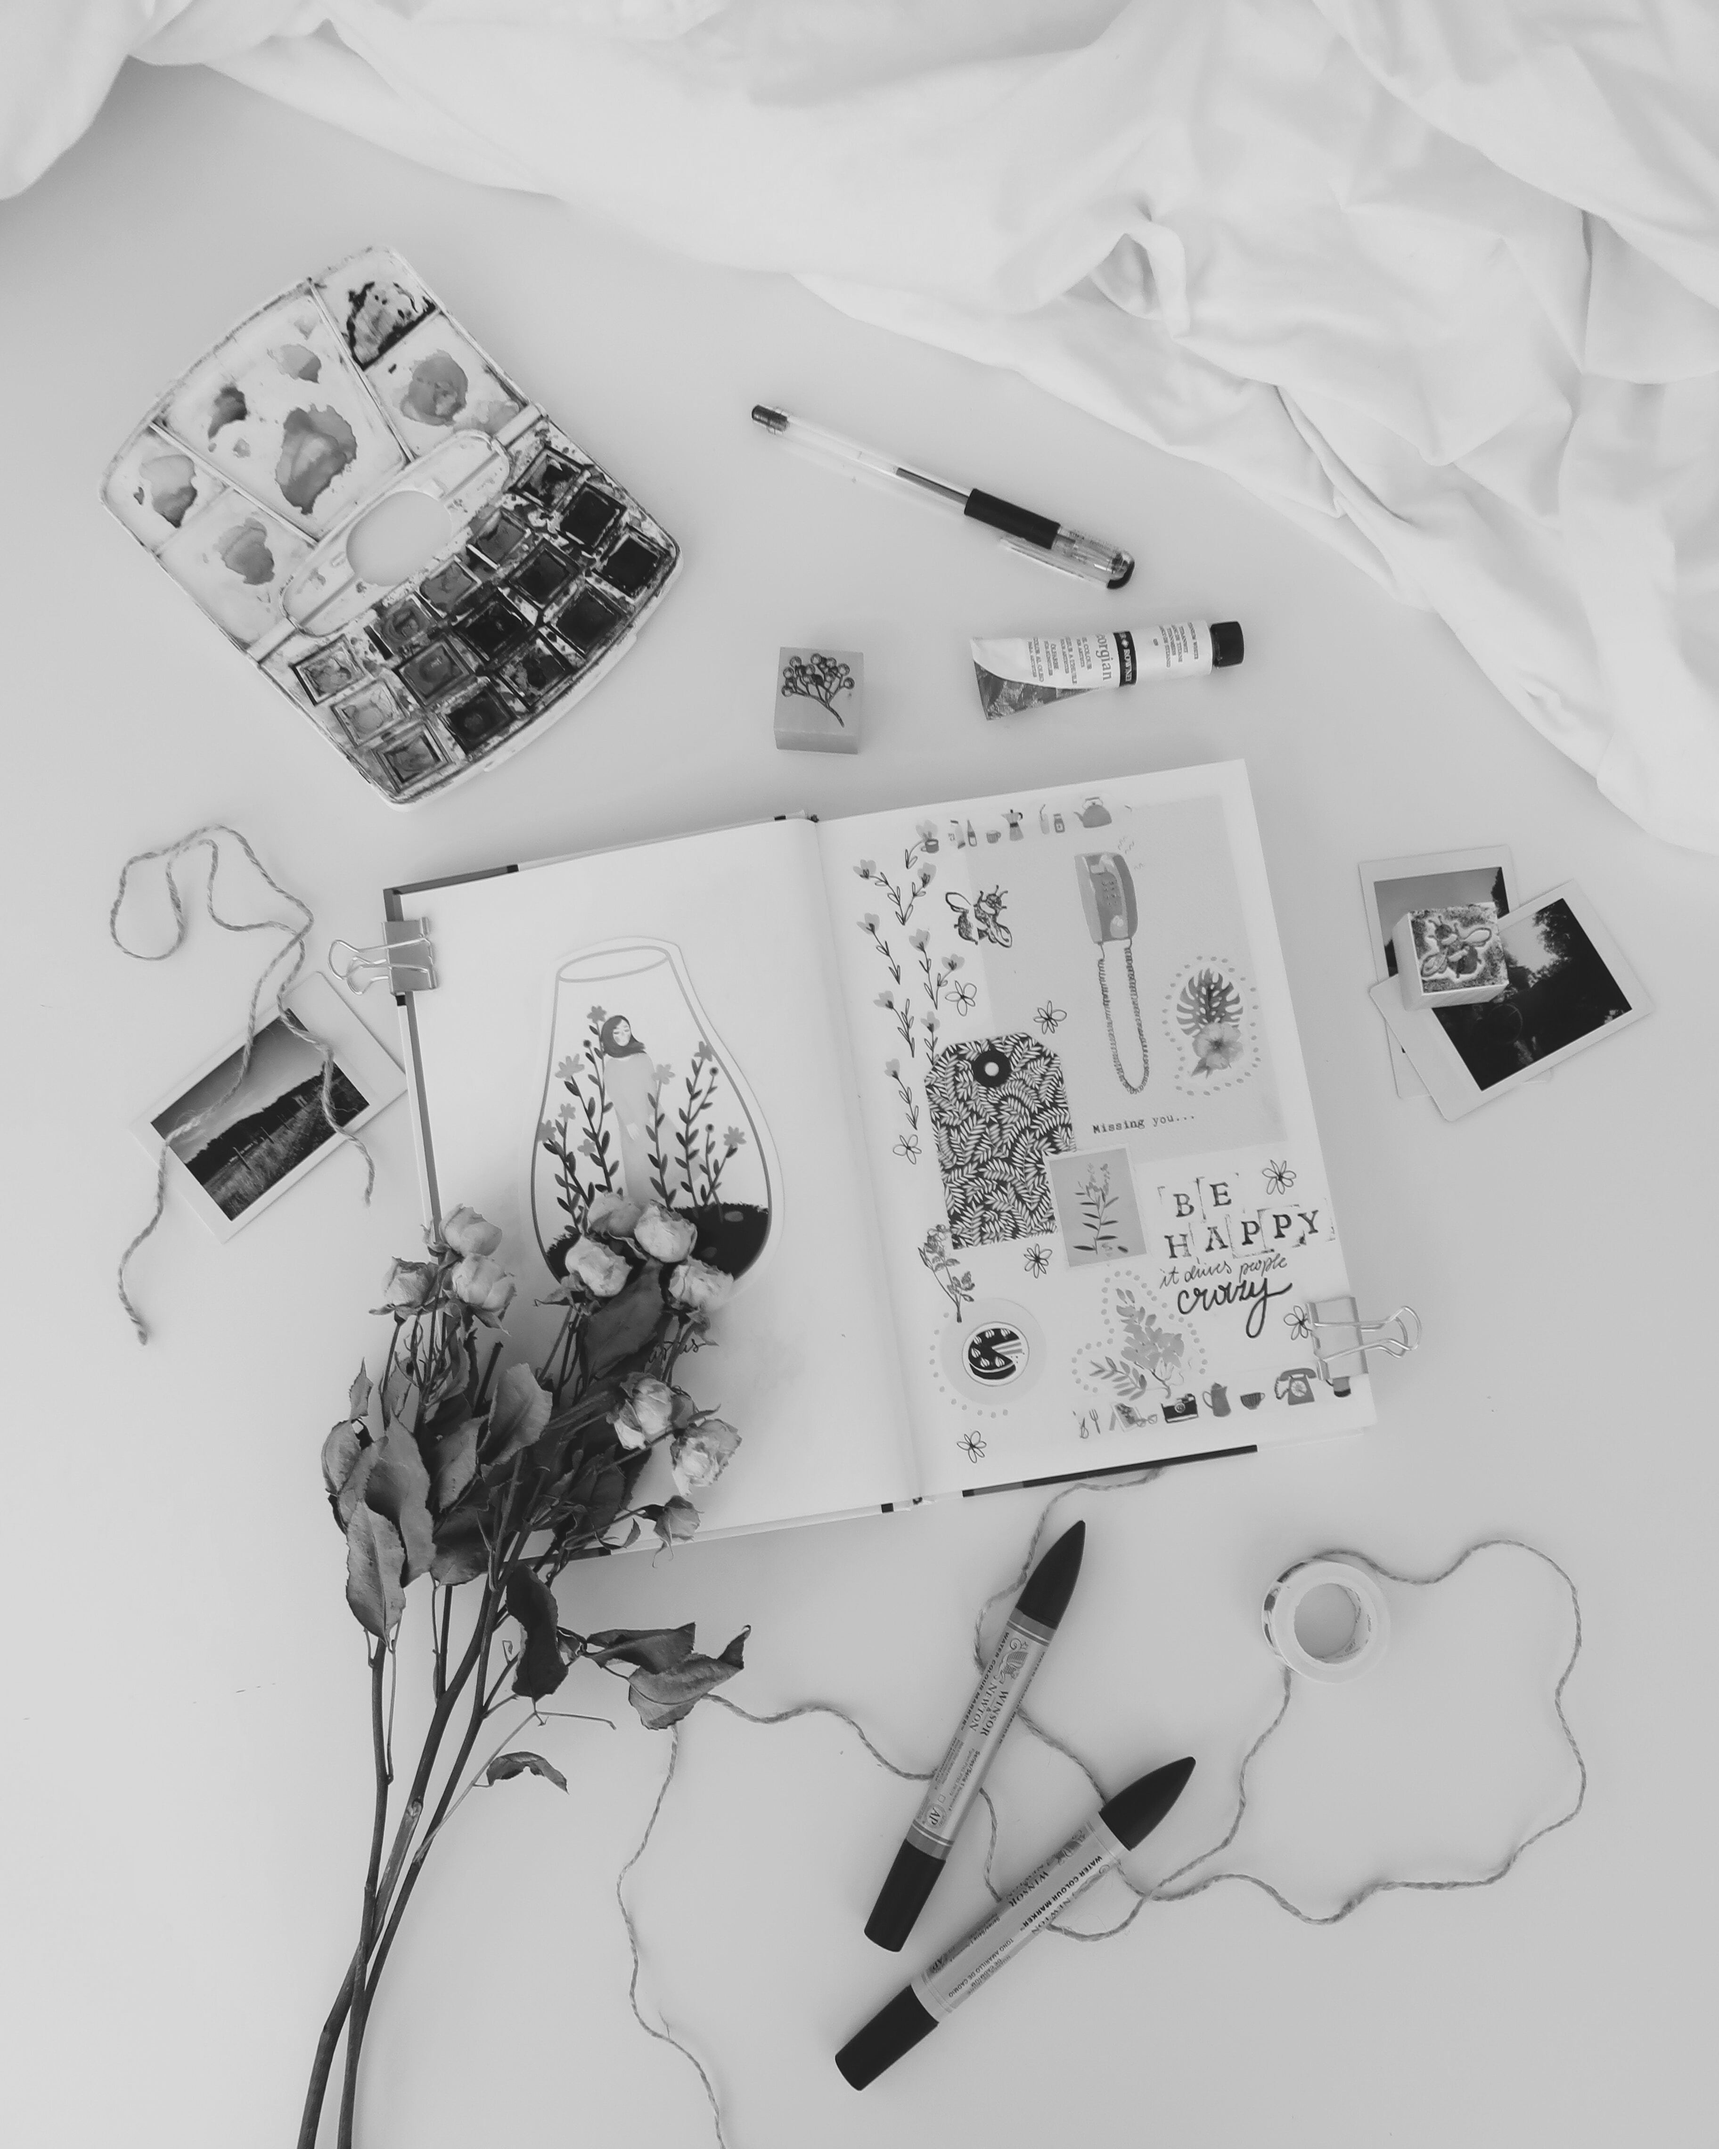
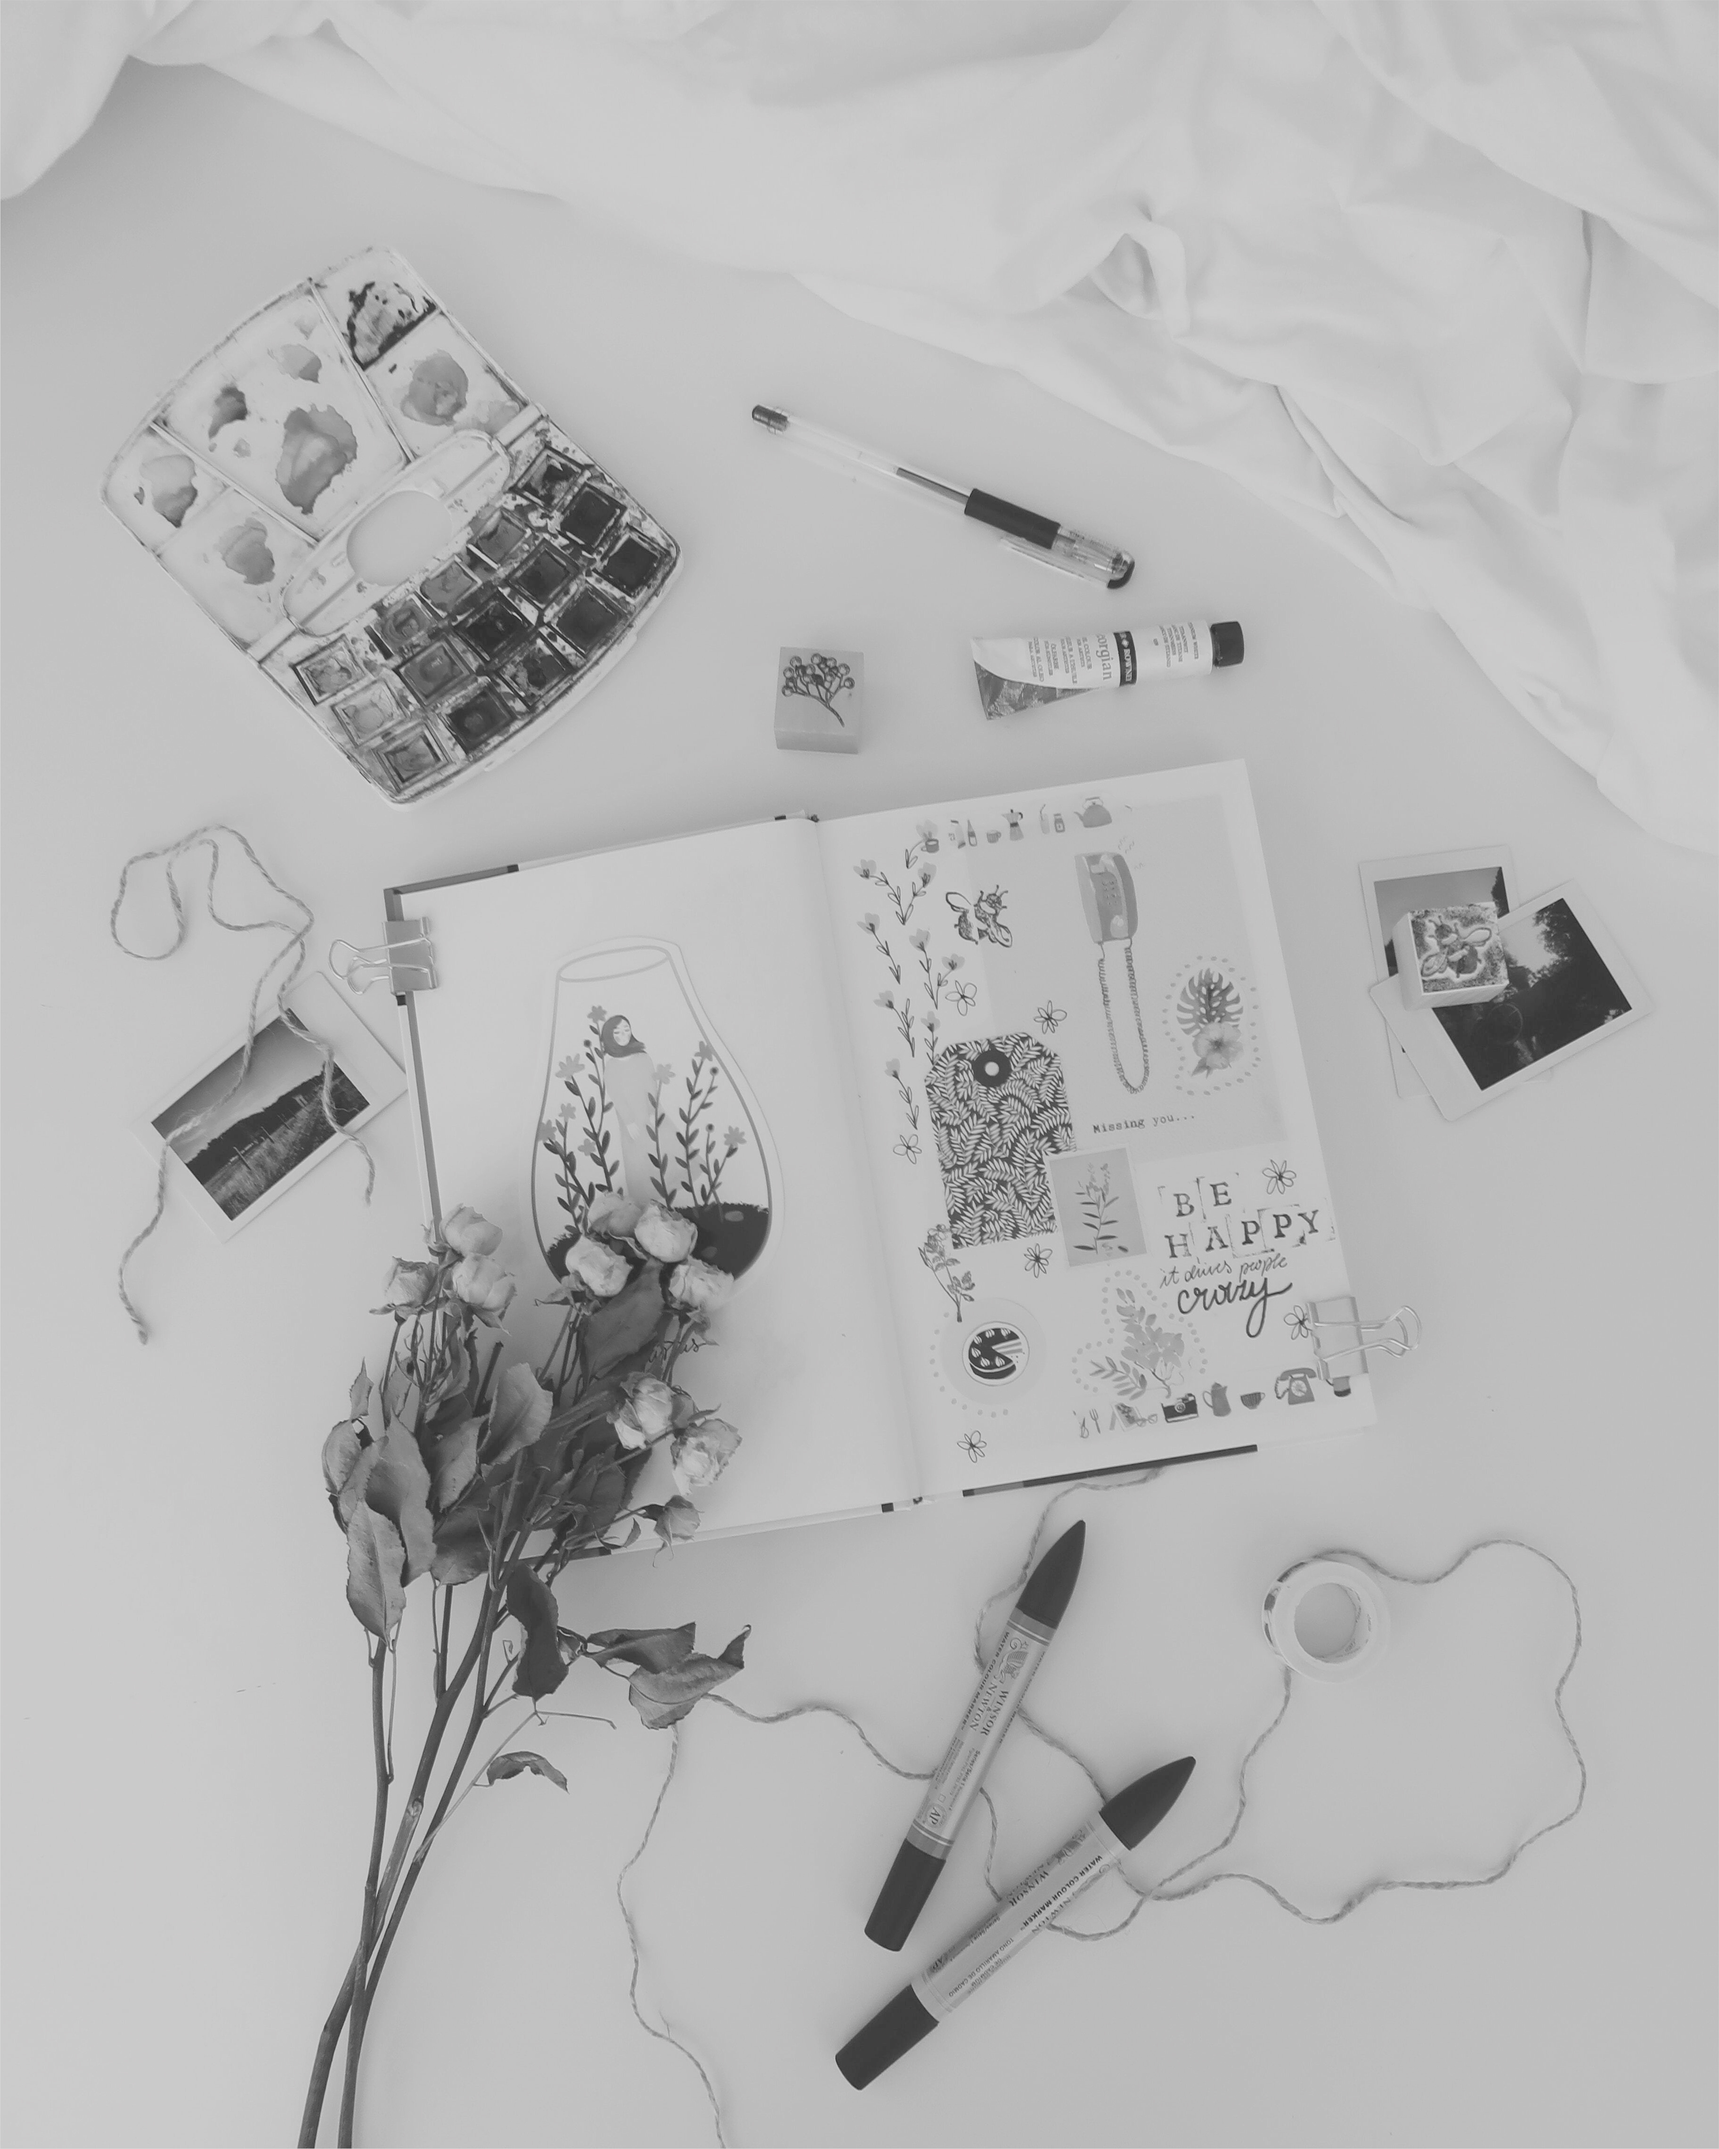
sostituzione foto

diff --git a/text-folio.html b/text-folio.html
@@ -6,7 +6,7 @@
       <meta http-equiv="X-UA-Compatible" content="ie=edge">
       <meta name="author" content="harrnish">
 
-      <title>Text | Portfolio</title>
+      <title>Typography | Portfolio</title>
 
       <!-- stylesheet -->
       <link rel="stylesheet" href="style.css">

diff --git a/style.css b/style.css
@@ -388,7 +388,7 @@ h6 {
 }
 
 .project4 {
-  background: url(./img/prg/text.jpg) no-repeat 50% 50%;
+  background: url(./img/prg/typography.jpg) no-repeat 50% 50%;
   background-size: cover;
 }
 
